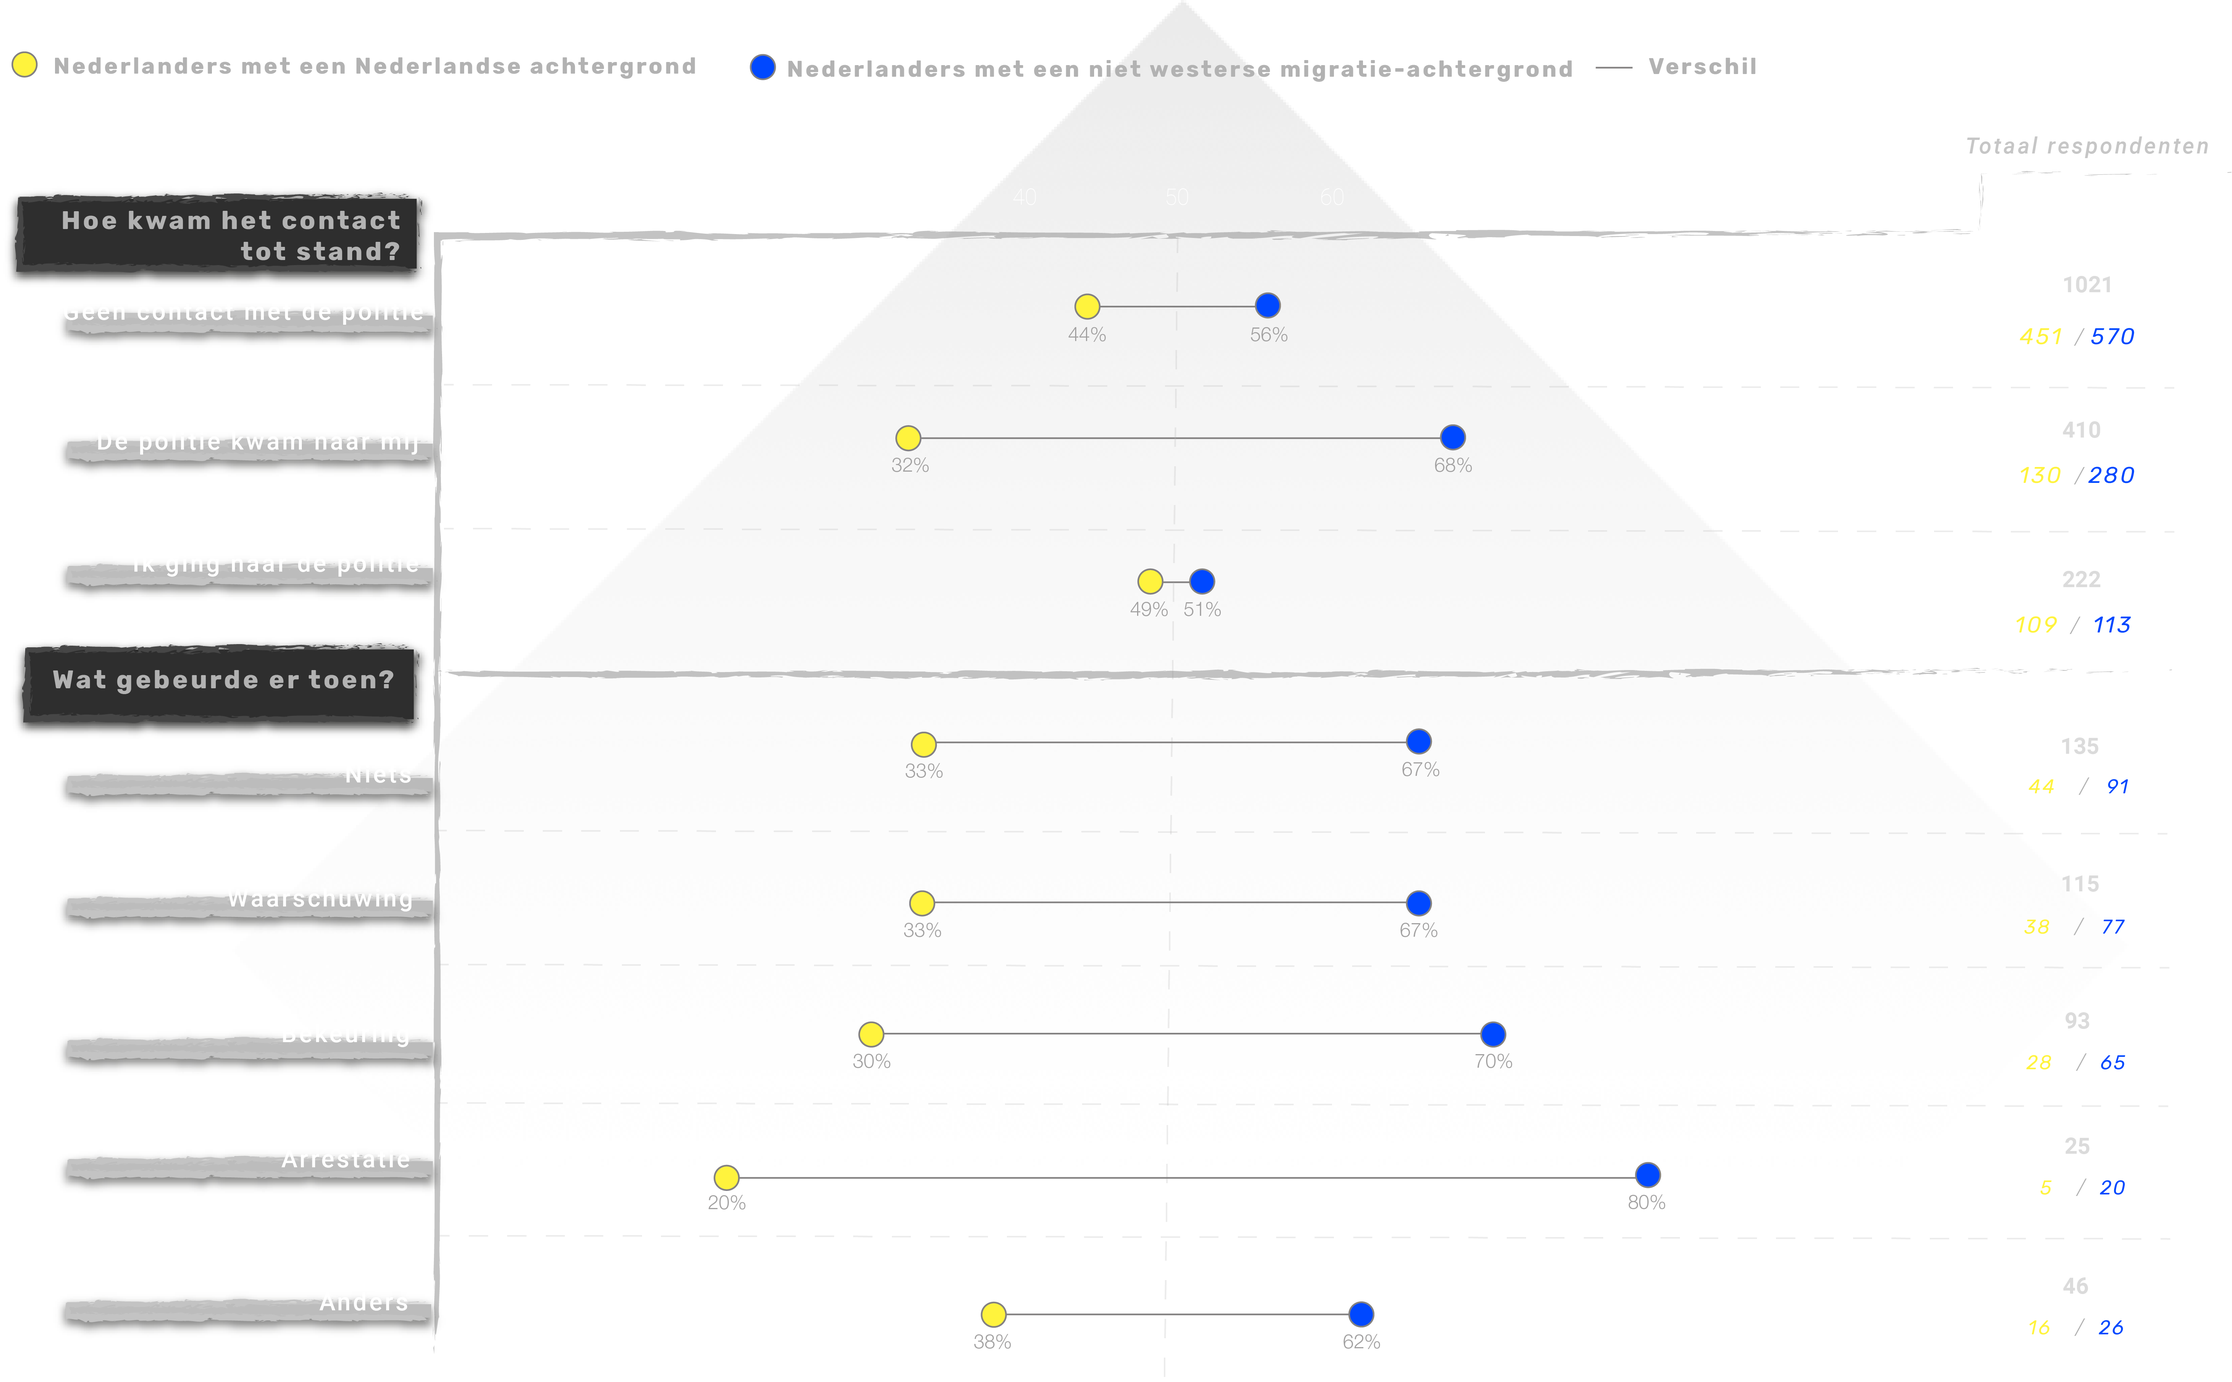
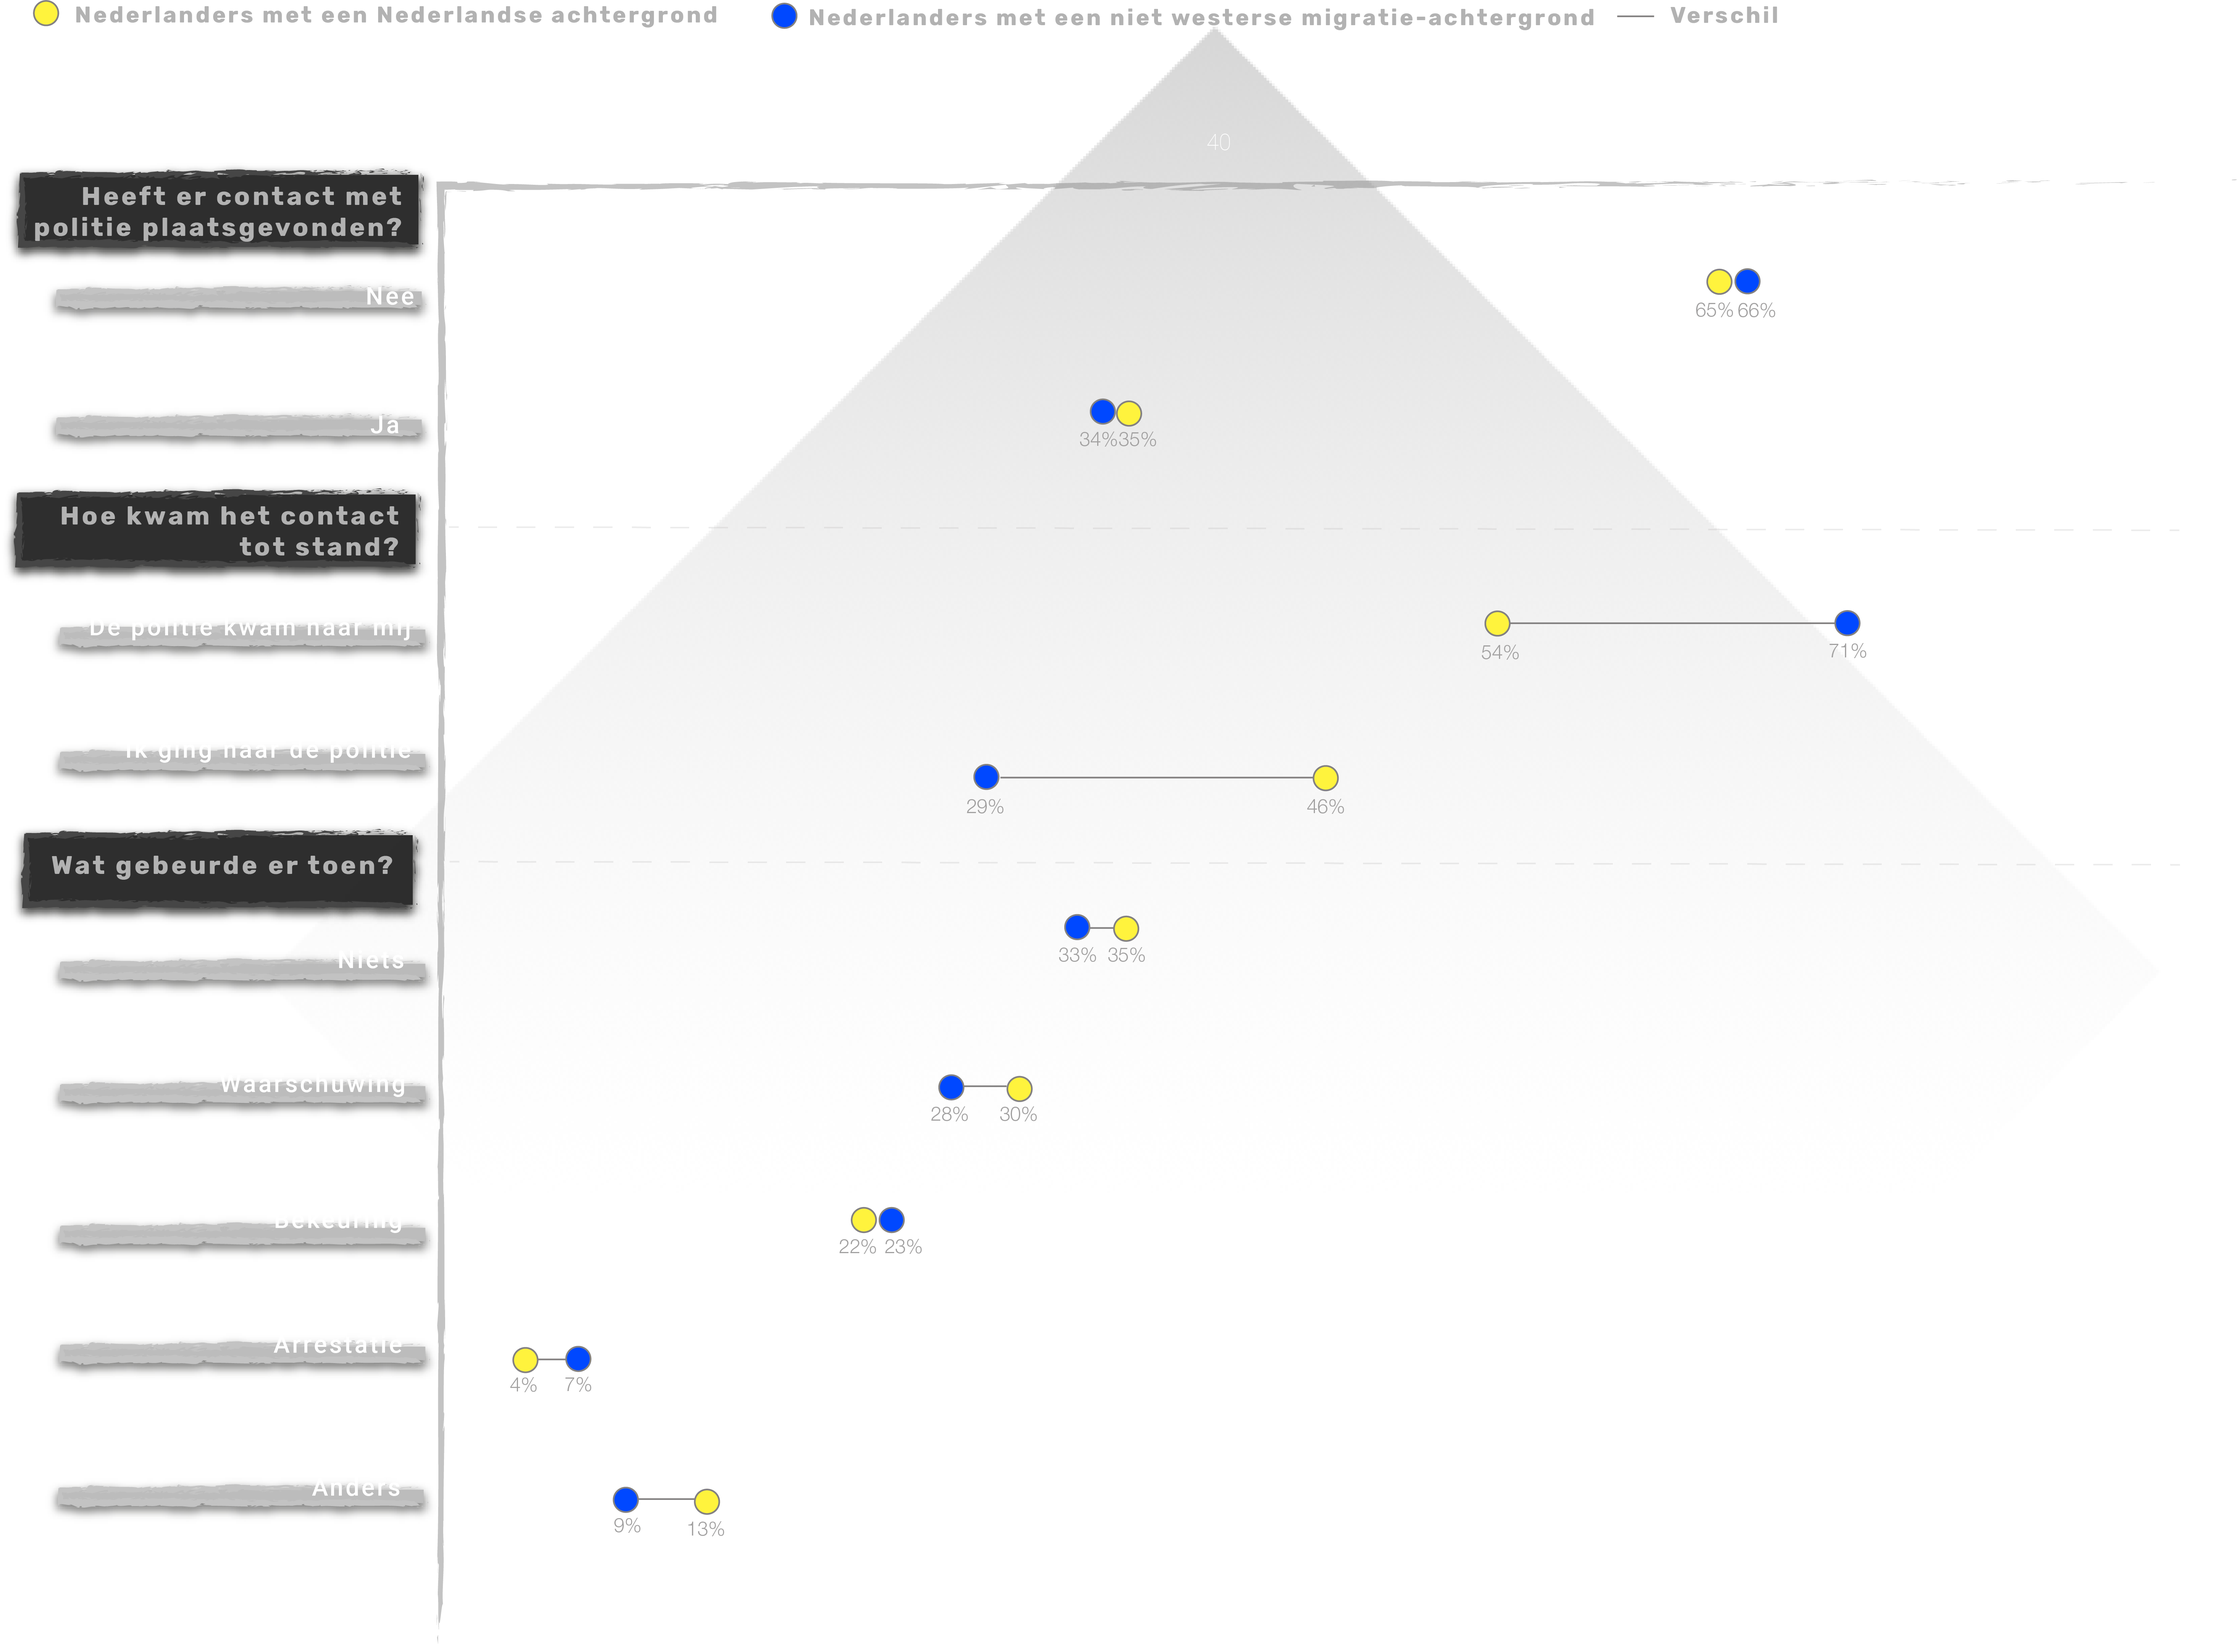
Update

diff --git a/style.css b/style.css
@@ -416,6 +416,7 @@ button {
 button:hover {
   background-color: #FFF7AE;
   background-color: grey;
+  cursor: pointer;
 }
 
 
@@ -562,11 +563,12 @@ button:hover {
   display: flex;
   justify-content: space-around;
   width: 100vw;
-  margin-top: 10vh;
+  height: auto;
 }
 
 .graph2 img {
-  width: 40vw;
+  width: 50vw;
+  margin-bottom: 10vh;
 }
 
 .indicatoren2 {
@@ -578,6 +580,13 @@ button:hover {
 
 .indicator2 {
   margin-top: 0.5em;
+}
+
+.buttongraph2 {
+  position: absolute;
+  margin-top: 30.3vh;
+  margin-left: 36vw;
+  width: 13vw;
 }
 
 

diff --git a/index.html b/index.html
@@ -125,7 +125,8 @@
 
     <section>
       <div class="">
-        <img src="images/graph2.png" alt="" class="graph2img">
+        <button type="button" name="button" class="buttongraph2">Beoordeeld op culturele achtergrond</button>
+        <img src="images/graph2a.png" alt="" class="graph2img">
       </div>
 
       <div class="description1">
